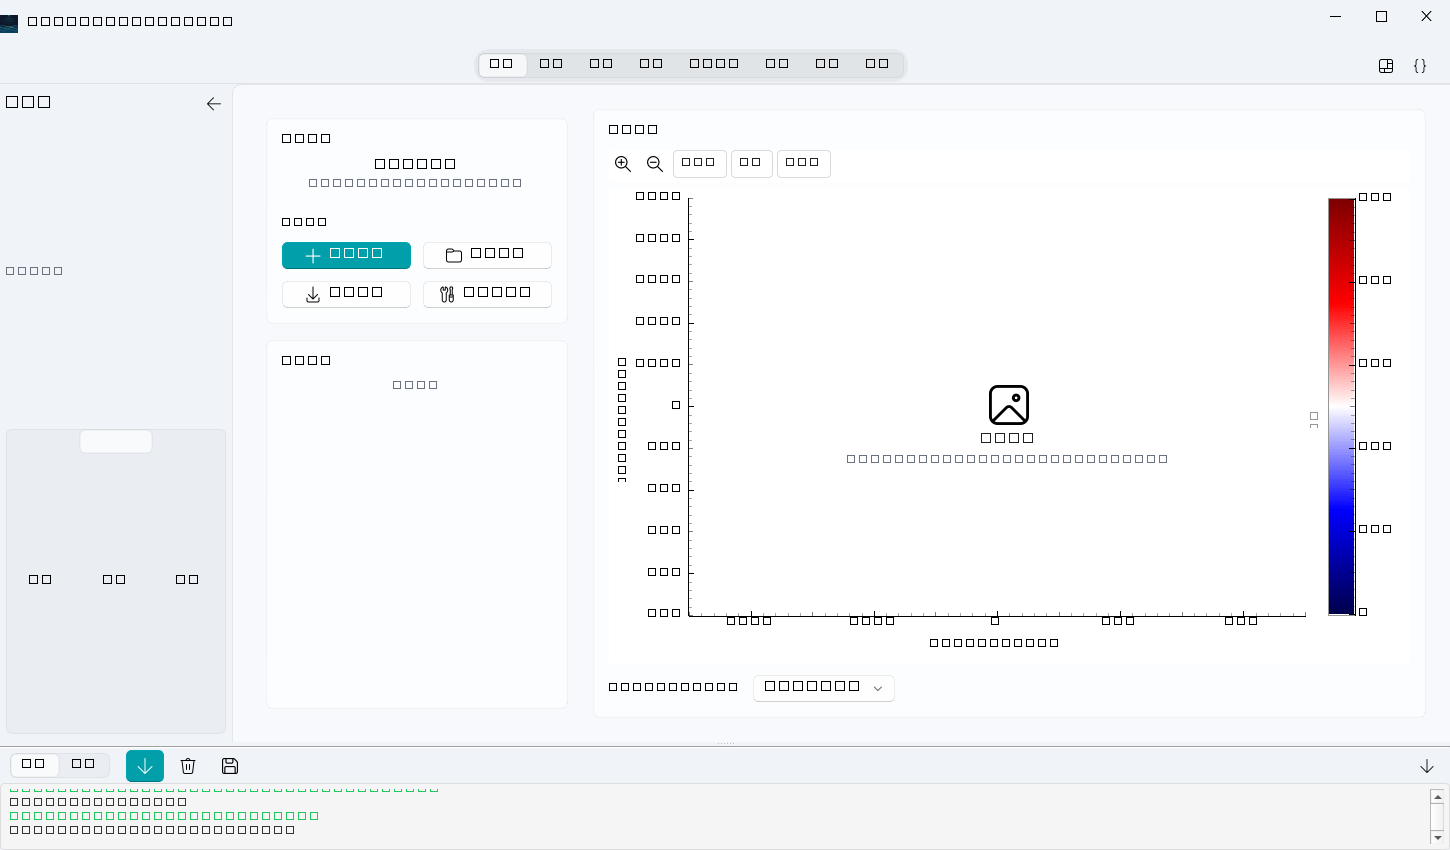
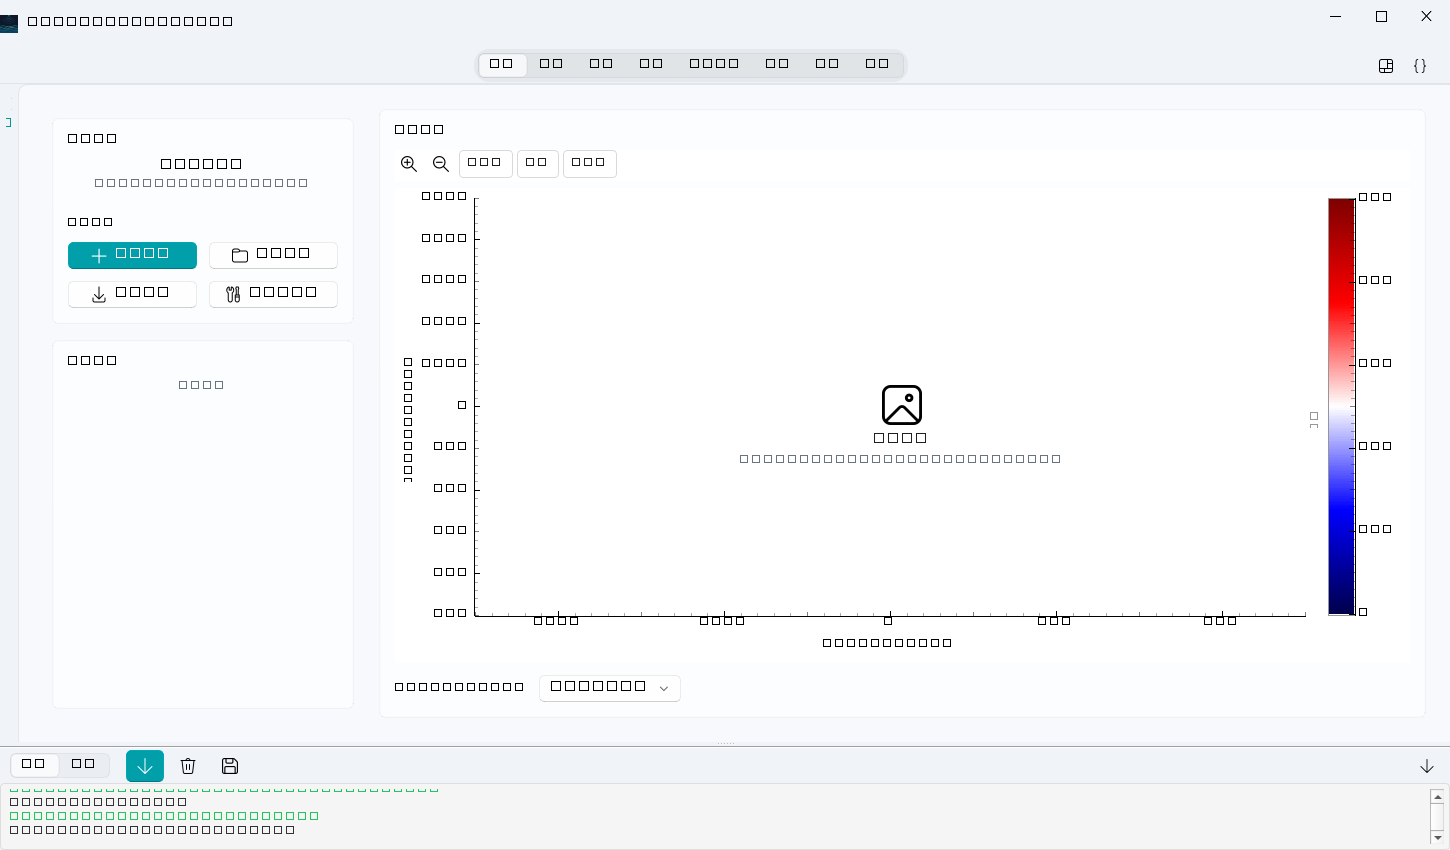
refactor(project): 移除项目页 B-Scan 预览，回归纯管理定位
用户报告「项目页的数据预览那里，目前这种布局页面想看 bscan 根本看不好，
被压缩了」。深挖后确认这不是比例模式问题，而是**结构性空间不足**。

实测（真实主窗 + 900 采样数据）：
  项目页 BScanView 975×300px → 绘图区 975×262px，每采样 0.291px
  对照 处理页 923×456px → 绘图区 923×418px（0.464px/采样，达标）
      解释页 1015×420px → 绘图区 1015×382px（0.424px/采样，达标）

根因：右列是纵向三卡 QSplitter，三张卡抢同一根 581px 竖条。预览卡只分到
198px，而 BScanView 的 PREVIEW_MIN_HEIGHT=300 让它**溢出自己的卡片**——
这正是"被压缩"的观感来源。按「绘图区高/采样数 ≥ 0.45px」的可读判据，
900 采样需 405px 绘图区（缺口 259px），而两张表最多让出 135px，
**靠调 min/sizes 永远补不上**。

用户决策：删掉项目页预览（表格不能压）。这也印证了项目的页面分工——
管理页不放需要大画布的查看器。

改动：
- project_page：删掉"数据预览"卡与 _bscan；splitter 由三卡改两卡
  （各半高、可拖动）；删除 set_preview_bundle；成果按钮文案
  「预览所选」→「在处理页查看」+ tooltip，明确去处（该按钮本就跳转处理页）；
  模块文档记录移除原因与判据；
- coordinator_project：4 处 project.set_preview_bundle 调用清除，
  on_dataset_preview/on_artifact_preview/on_preview_invalidated 相应收敛
  （数据集预览仍喂主页/处理页/解释页，成果预览仍喂处理页）；
- 新增 tests/test_project_page_no_preview.py（4 项）：锁定"页面内不得出现
  BScanView"、"不得保留 set_preview_bundle"、"两表仍在"、"按钮文案指明去处"；
- docs/ui-style.md 新增「管理页 vs 查看页」规则与 0.45px/采样 判据；
- docs/user/用户指南.md 项目页条目注明看 B-Scan 去处理页；
- 重新生成 18 张文档截图。

效果：两张表各得 289px（原 198/177，+91/+112px，可见行数 4→5/6）；
页面 sizeHint 970→613，不再超出可用高 657px（消除溢出挤压）。

验证：ruff 通过；全量 983 passed / 6 skipped；--smoke 9 张通过；
复核探针 _probe_project_after_removal.py 全绿。

diff --git a/ui/pages/project_page.py b/ui/pages/project_page.py
@@ -6,8 +6,13 @@
 - set_lines(list[ProjectLine])：刷新测线表
 - set_artifacts(list[ProjectArtifact])：刷新成果表
 - set_preflight_result(text, ok)：预检结果区
-- set_preview_bundle(bundle|None)：数据预览
 - set_busy(bool)：禁用操作按钮
+
+**本页不做 B-Scan 预览**（2026-09-22 移除）：右列三卡纵向分割后，预览区
+只得到 ~198px 卡片高，B-Scan 绘图区仅 262px（每采样 0.291px，为可读阈值
+的 65%），结构上无法放好看——数据 900 采样时需 405px 绘图区，缺口 259px，
+而两张表最多让出 135px。查看 B-Scan 请用处理页（绘图区 418px）或解释页
+（绘图区 382px），两者均达标。项目页回归"纯管理"定位。
 
 信号：import_requested(dict) / sync_requested(dict) /
 line_selected(str) / line_process_requested(str) /
@@ -16,7 +21,7 @@ artifact_preview_requested(str, str)。
 右键菜单（RoundMenu）：测线表 = 处理该测线（跳转处理页，双击同效）/
 复制数据文件路径 / 打开数据所在文件夹 /
 复制测线号（路径为 controller 异步查询回包缓存，set_line_source_path 喂入）；
-成果表 = 预览所选（双击同效）。
+成果表 = 预览所选（双击同效，跳转处理页查看）。
 
 import_requested payload：{'preflight': bool, 'source', 'line_id', 'name', 'dielectric'}
 （'预检' 按钮 preflight=True → ProjectController.preflight_import；
@@ -43,7 +48,7 @@ from ui import constants, file_dialogs
 from ui.page_scaffold import (make_card, make_form_row, make_hint,
                               make_scroll_column)
 from ui.theme_helpers import status_color
-from ui.widgets import (BScanView, CollapsiblePanel, clear_invalid,
+from ui.widgets import (CollapsiblePanel, clear_invalid,
                         make_separator, mark_invalid, validate_non_empty)
 from ui.widgets.context_menus import add_action, make_menu
 
@@ -321,24 +326,26 @@ class ProjectPage(QWidget):
             self._on_artifacts_context_menu)
         art_layout.addWidget(self._artifacts_table)
         art_btn_row = QHBoxLayout()
-        self.preview_artifact_btn = PushButton('预览所选', art_card)
+        # 本页已无 B-Scan 预览（见模块文档），按钮实为"跳到处理页去看"，
+        # 故文案明确去处，避免用户以为就地会弹图。
+        self.preview_artifact_btn = PushButton('在处理页查看', art_card)
+        self.preview_artifact_btn.setToolTip('跳到处理页并载入该成果的 B-Scan 预览')
         self.preview_artifact_btn.clicked.connect(self._emit_artifact_preview)
         art_btn_row.addStretch(1)
         art_btn_row.addWidget(self.preview_artifact_btn)
         art_layout.addLayout(art_btn_row)
         splitter.addWidget(art_card)
 
-        # 卡片"数据预览"（吃掉剩余空间，B-Scan 完整显示）
-        preview_card, preview_layout = make_card('数据预览')
-        self._bscan = BScanView(preview_card)
-        self._bscan.setMinimumHeight(constants.PREVIEW_MIN_HEIGHT)
-        preview_layout.addWidget(self._bscan, 1)
-        splitter.addWidget(preview_card)
-
-        splitter.setStretchFactor(0, 0)
-        splitter.setStretchFactor(1, 0)
-        splitter.setStretchFactor(2, 1)
-        splitter.setSizes([160, 140, 400])
+        # 本页不再放 B-Scan 预览（2026-09-22 移除）：三卡纵向分割后预览区
+        # 只有 ~198px 卡片高、绘图区 262px（每采样 0.291px，仅为可读阈值
+        # 0.45px 的 65%），B-Scan 在其中必然被压扁——数据 900 采样需 405px
+        # 绘图区，缺口 259px，而两张表最多让出 135px，靠挤压无解。
+        # 看 B-Scan 请用处理页（绘图区 418px）/ 解释页（382px），均达标；
+        # 本页回归"纯管理"定位，空间留给两张表。
+        # 两卡各占一半，用户可拖动调整。
+        splitter.setStretchFactor(0, 1)
+        splitter.setStretchFactor(1, 1)
+        splitter.setSizes([290, 290])
         layout.addWidget(splitter, 1)
         return layout
 
@@ -452,13 +459,6 @@ class ProjectPage(QWidget):
         """预检结果区：ok 绿色 / 失败红色。"""
         self._preflight_label.setText(str(text or ''))
         self._preflight_label.set_hint_key('success' if ok else 'error')
-
-    def set_preview_bundle(self, bundle) -> None:
-        """PreviewBundle（鸭子类型）或 None（清空）。"""
-        if bundle is None:
-            self._bscan.clear()
-        else:
-            self._bscan.set_bundle(bundle)
 
     def set_busy(self, busy: bool) -> None:
         """控制器 busy 状态 → 禁用操作按钮。"""
@@ -604,7 +604,8 @@ class ProjectPage(QWidget):
             return
         self._artifacts_table.selectRow(row)
         menu = make_menu(self)
-        add_action(menu, FIF.VIEW, '预览所选', self._emit_artifact_preview)
+        add_action(menu, FIF.VIEW, '在处理页查看',
+                   self._emit_artifact_preview)
         add_action(menu, FIF.DELETE, '删除所选成果',
                    self._on_artifacts_context_delete)
         menu.exec(self._artifacts_table.viewport().mapToGlobal(pos))

diff --git a/tests/test_project_page_no_preview.py b/tests/test_project_page_no_preview.py
@@ -1,0 +1,64 @@
+# -*- coding: utf-8 -*-
+"""项目页「不做 B-Scan 预览」回归测试（2026-09-22 移除决策）。
+
+背景：项目页右列曾用纵向三卡 QSplitter（测线列表 / 处理成果 / 数据预览）。
+实测预览区只得到 ~198px 卡片高 → B-Scan 绘图区 262px → 每采样 0.291px，
+仅为可读阈值 0.45px 的 65%。数据 900 采样需 405px 绘图区，缺口 259px，
+而两张表最多让出 135px——**结构上无解**，故移除预览，本页回归纯管理。
+
+本文件锁定该结构，防止后续重构又塞回一个被压扁的预览：
+  1. 页面内不得出现 BScanView；
+  2. 不得再有 set_preview_bundle 接口（避免协作层继续喂数据）；
+  3. 两张表都必须还在（腾出的空间归它们）。
+"""
+from __future__ import annotations
+
+import os
+
+os.environ.setdefault('QT_QPA_PLATFORM', 'offscreen')
+
+import pytest
+
+pytest.importorskip("PyQt6")  # 后端 CI（无 Qt）自动跳过
+
+from PyQt6.QtWidgets import QTableWidget  # noqa: E402
+
+from ui.pages.project_page import ProjectPage  # noqa: E402
+from ui.widgets.bscan_view import BScanView  # noqa: E402
+
+
+@pytest.fixture
+def page(qapp):
+    p = ProjectPage()
+    yield p
+    p.close()
+
+
+class TestNoBscanPreview:
+    """项目页是管理页，不是查看页——不得内嵌 B-Scan。"""
+
+    def test_no_bscan_view_child(self, page):
+        assert page.findChildren(BScanView) == [], (
+            '项目页不应内嵌 B-Scan：右列三卡分割后绘图区仅 262px，'
+            '每采样 0.291px < 可读阈值 0.45px。查看请走处理页/解释页。')
+
+    def test_no_preview_bundle_api(self, page):
+        assert not hasattr(page, 'set_preview_bundle'), (
+            '项目页不应保留 set_preview_bundle 接口，否则协作层会继续喂'
+            '数据到不存在的预览控件。')
+
+    def test_keeps_both_tables(self, page):
+        tables = page.findChildren(QTableWidget)
+        assert len(tables) >= 2, (
+            '移除预览腾出的空间应归测线列表与处理成果两张表，'
+            f'当前只找到 {len(tables)} 张表。')
+
+
+class TestPreviewButtonsPointElsewhere:
+    """既然本页无预览，按钮/菜单必须说清「去别处看」。"""
+
+    def test_button_label_mentions_target_page(self, page):
+        text = page.preview_artifact_btn.text()
+        assert '处理页' in text, (
+            f'成果按钮文案应指明去处（当前 {text!r}）——本页不再就地弹图，'
+            '写成「预览所选」会让用户以为图片会出现在本页。')

diff --git a/ui/coordinator_project.py b/ui/coordinator_project.py
@@ -190,7 +190,6 @@ class ProjectChain:
             co.file_tree().set_project_info(None)
         project.set_lines([])
         project.set_artifacts([])
-        project.set_preview_bundle(None)
         processing.set_line_label('')
         processing.set_original_bundle(None)
         processing.set_result_bundle(None)
@@ -388,19 +387,21 @@ class ProjectChain:
                 line_id or self.current_line_id, artifact_id)
 
     def on_dataset_preview(self, bundle) -> None:
-        """原始数据预览 → 主页 / 项目页 / 处理页（原始）/ 解释页剖面。"""
+        """原始数据预览 → 主页 / 处理页（原始）/ 解释页剖面。
+
+        项目页不再接收 B-Scan 预览（2026-09-22 移除，见 ProjectPage 模块
+        文档）：该页右列三卡纵向分割后预览区只有 ~198px 高，B-Scan 必被
+        压扁；查看请走处理页/解释页。
+        """
         co = self._co
         co.page('homeInterface').set_preview_bundle(bundle)
-        co.page('projectInterface').set_preview_bundle(bundle)
         co.page('processingInterface').set_original_bundle(bundle)
         co.page('interpretationInterface').set_bundle(bundle)
 
     def on_artifact_preview(self, artifact_id: str, bundle) -> None:
-        """成果预览 → 项目页预览 + 处理页（处理结果）。"""
+        """成果预览 → 处理页（处理结果）。"""
         co = self._co
-        project = co.page('projectInterface')
         processing = co.page('processingInterface')
-        project.set_preview_bundle(bundle)
         processing.set_result_bundle(bundle)
         processing_chain = co.processing
         if processing_chain.show_run_completion_notice:
@@ -410,10 +411,8 @@ class ProjectChain:
             processing.show_result_segment()
 
     def on_preview_invalidated(self) -> None:
-        """当前预览的成果已被删除 → 清空项目页/处理页的成果预览。"""
-        project = self._co.page('projectInterface')
+        """当前预览的成果已被删除 → 清空处理页的成果预览。"""
         processing = self._co.page('processingInterface')
-        project.set_preview_bundle(None)
         processing.set_result_bundle(None)
 
     def on_line_delete_requested(self, line_ids: list[str]) -> None:

diff --git a/docs/user/用户指南.md b/docs/user/用户指南.md
@@ -31,7 +31,7 @@ python backend_smoke.py --skip-autotune             # 后端自检
 | 页面 | 用途 |
 |---|---|
 | 主页 | 项目概览、快速操作（新建/打开项目、导入测线）、数据预览、最近任务 |
-| 项目 | 项目信息、测线列表、数据导入（带预检）、传感器同步、处理成果浏览 |
+| 项目 | 项目信息、测线列表、数据导入（带预检）、传感器同步、处理成果浏览（看 B-Scan 请用「处理」页，本页只做管理） |
 | 处理 | 方法库（36 个算法，中文分类 + 推荐/备选/实验标签）、处理链编排、参数表单、AutoTune 自动调参、前后对比 |
 | 解释 | 基覆界面标注：打开会话、点击拾取、自动追踪、吸附、平滑、撤销/重做、保存 |
 | 空间 | 空间轨迹、空间成果版本、在线底图 |
